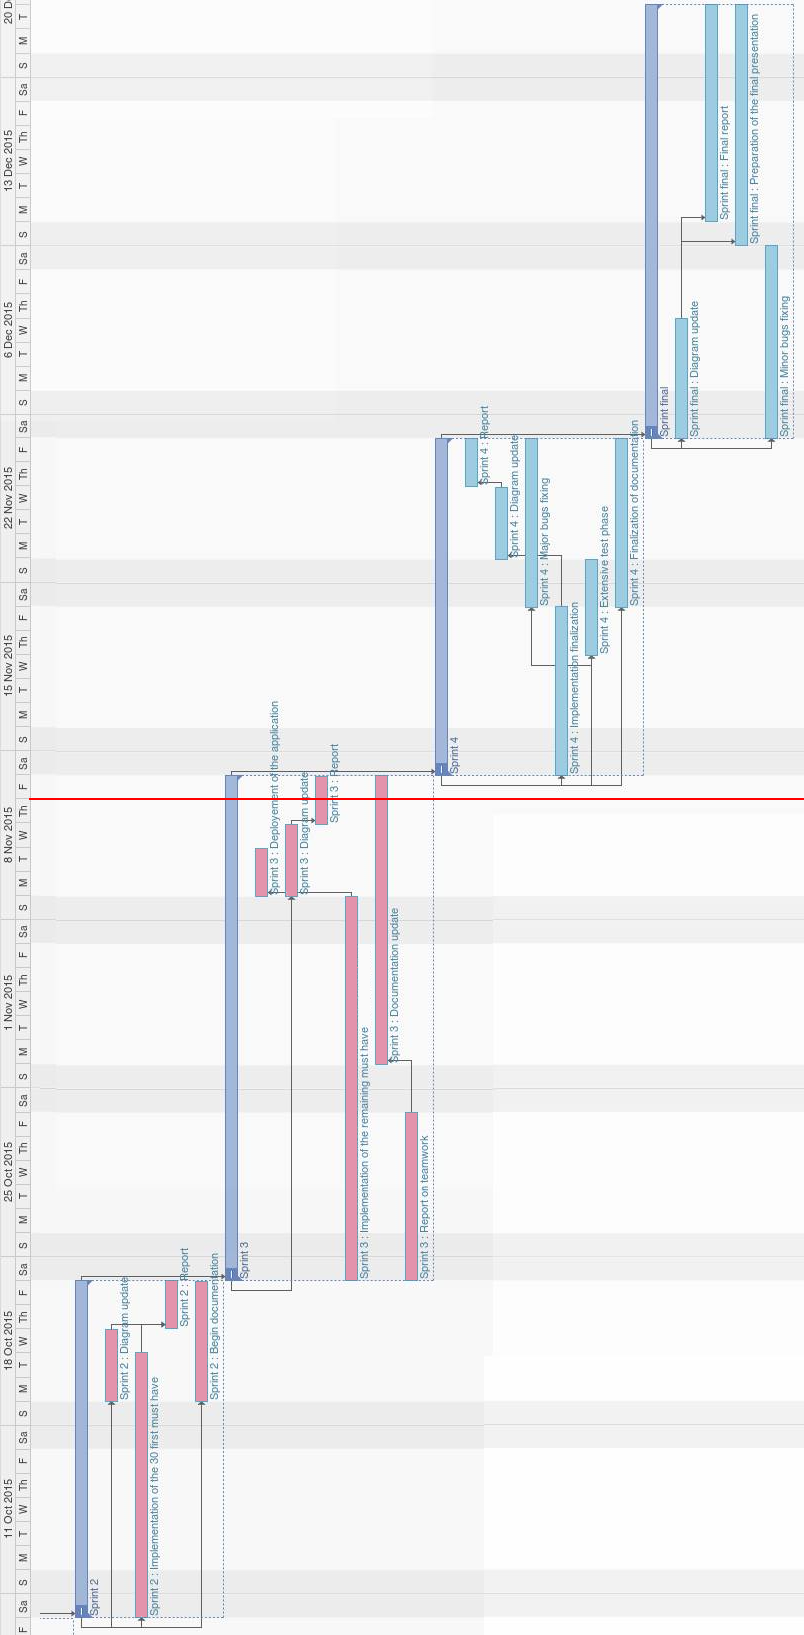
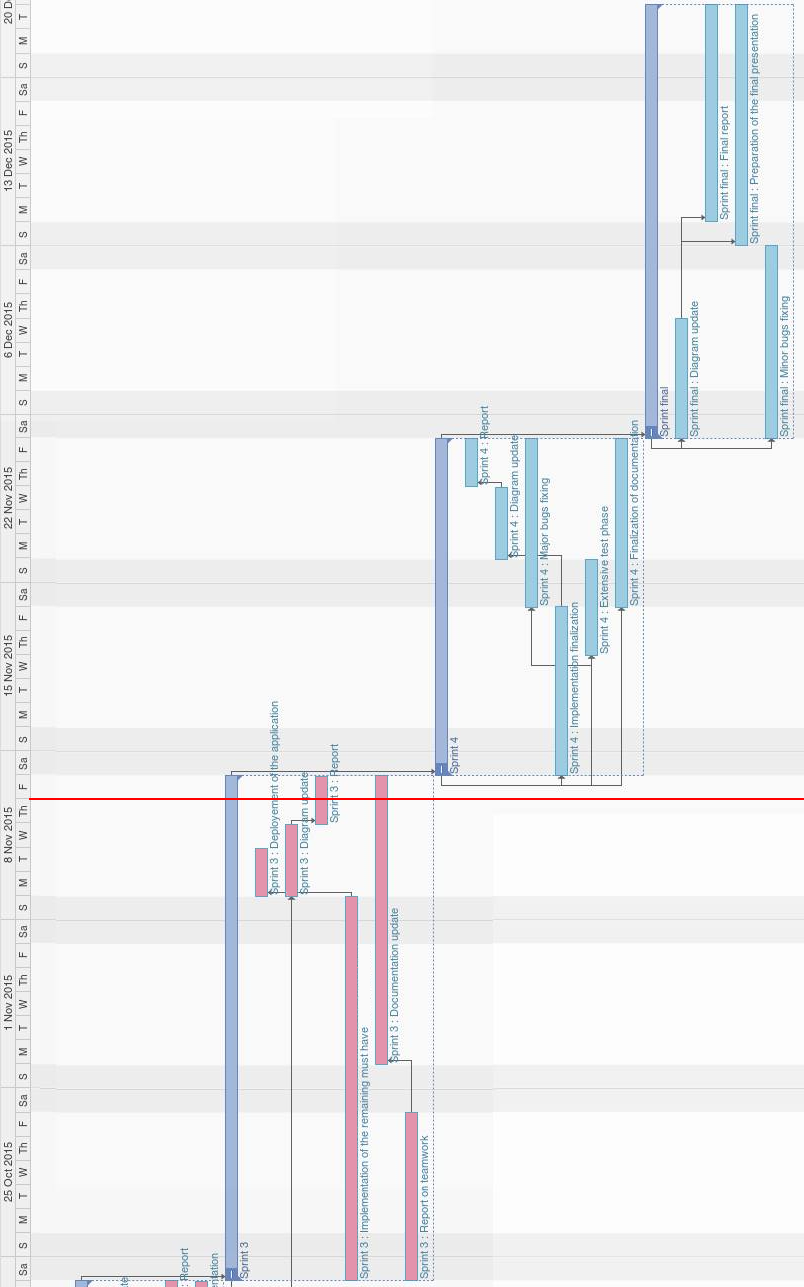
gantt et planning

diff --git a/LaTeX/report4/planning.tex b/LaTeX/report4/planning.tex
@@ -4,7 +4,7 @@ As you can see on the following planning, we are back on schedule having finishe
 
 \begin{figure}[!ht]
 	\centering
-	\includegraphics[width=0.75\linewidth]{gantt.png}
+	\includegraphics[width=0.95\linewidth]{gantt.png}
 	\caption{Planning}
 	\label{fig:length_eight_mouse}
 \end{figure}
